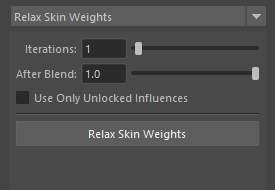
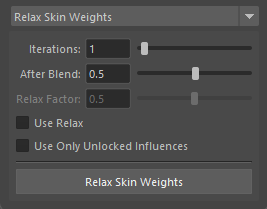
docs: Update Relax Skin Weights documentation with Use Relax option (JA/EN)

diff --git a/docs/output/ja/rig/skin_tools.html b/docs/output/ja/rig/skin_tools.html
@@ -337,7 +337,6 @@ faketools.tools.rig.skin_tools.ui.show_ui()</code></pre>
                 <p>ウエイトをスムース、リラックスさせるには、以下の手順を行います。</p>
                 <ol type="1">
                 <li>コンポーネントを選択します。</li>
-                <li>上部のメニューからスムースの種類を選択します。</li>
                 <li>オプションを設定します。</li>
                 <li><code>Relax Skin Weights</code>
                 ボタンを押します。</li>
@@ -353,6 +352,19 @@ faketools.tools.rig.skin_tools.ui.show_ui()</code></pre>
                 <li>スムース後に、元のウエイトとスムース後のウエイトをブレンドする割合を設定します。0.0
                 で元のウエイト、1.0
                 でスムース後のウエイトになります。</li>
+                </ul></li>
+                <li><strong>Relax Factor</strong>
+                <ul>
+                <li>Relax Operator
+                使用時の緩和係数を設定します。値が大きいほど隣接頂点の平均に近づきます。<code>Use Relax</code>
+                が有効な場合のみ使用されます。</li>
+                </ul></li>
+                <li><strong>Use Relax</strong>
+                <ul>
+                <li>有効にすると、スムース方法が Laplacian から Relax
+                Operator に切り替わります。Relax Operator
+                は元のウエイトと隣接頂点の平均をブレンドするため、Laplacian
+                よりも穏やかなスムース結果になります。</li>
                 </ul></li>
                 <li><strong>Use Only Unlocked Influences</strong>
                 <ul>

diff --git a/docs/output/en/rig/skin_tools.html b/docs/output/en/rig/skin_tools.html
@@ -357,7 +357,6 @@ faketools.tools.rig.skin_tools.ui.show_ui()</code></pre>
                 <p>To smooth and relax weights, follow these steps:</p>
                 <ol type="1">
                 <li>Select components.</li>
-                <li>Select smooth type from top menu.</li>
                 <li>Set options.</li>
                 <li>Press <code>Relax Skin Weights</code> button.</li>
                 </ol>
@@ -373,6 +372,20 @@ faketools.tools.rig.skin_tools.ui.show_ui()</code></pre>
                 <li>Sets ratio to blend original weights with smoothed
                 weights after smoothing. 0.0 for original weights, 1.0
                 for smoothed weights.</li>
+                </ul></li>
+                <li><strong>Relax Factor</strong>
+                <ul>
+                <li>Sets the relaxation factor when using Relax
+                Operator. Higher values produce results closer to the
+                neighbor average. Only used when <code>Use Relax</code>
+                is enabled.</li>
+                </ul></li>
+                <li><strong>Use Relax</strong>
+                <ul>
+                <li>When enabled, switches the smoothing method from
+                Laplacian to Relax Operator. Relax Operator blends the
+                original weights with the neighbor average, producing
+                smoother results than Laplacian.</li>
                 </ul></li>
                 <li><strong>Use Only Unlocked Influences</strong>
                 <ul>

diff --git a/docs/src/en/rig/skin_tools.md b/docs/src/en/rig/skin_tools.md
@@ -188,9 +188,8 @@ Smooths and relaxes weights.
 To smooth and relax weights, follow these steps:
 
 1. Select components.
-2. Select smooth type from top menu.
-3. Set options.
-4. Press `Relax Skin Weights` button.
+2. Set options.
+3. Press `Relax Skin Weights` button.
 
 ### Options
 
@@ -198,6 +197,10 @@ To smooth and relax weights, follow these steps:
   - Sets smooth iteration count. More iterations smooth weights more.
 - **After Blend**
   - Sets ratio to blend original weights with smoothed weights after smoothing. 0.0 for original weights, 1.0 for smoothed weights.
+- **Relax Factor**
+  - Sets the relaxation factor when using Relax Operator. Higher values produce results closer to the neighbor average. Only used when `Use Relax` is enabled.
+- **Use Relax**
+  - When enabled, switches the smoothing method from Laplacian to Relax Operator. Relax Operator blends the original weights with the neighbor average, producing smoother results than Laplacian.
 - **Use Only Unlocked Influences**
   - Smooths using only unlocked influences. Somewhat experimental feature.
 
